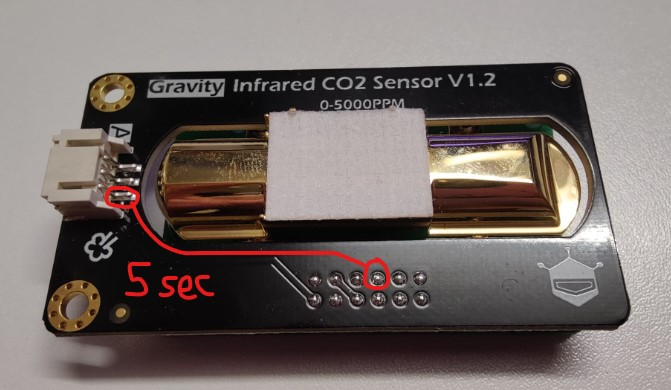
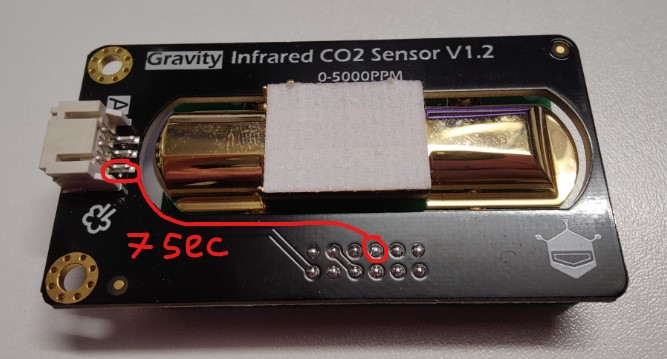
Some updates to the calibration manual

diff --git a/COACH/docs/CO2-sensor-calibration.md b/COACH/docs/CO2-sensor-calibration.md
@@ -1,14 +1,14 @@
 ## How to calibrate CO2 sensors v1.2 ([DF Robot](https://www.dfrobot.com/product-1549.html))
 
-The calibration is done by connecting those two pins for 5 seconds. Please follow the next steps:
+This is done by grounding the calibration pin for 7 seconds. Please follow the next steps:
 
 1. Leave the sensor working for 20 minutes in ideal environment (such as near one of the HVAC outlets in One Pool Street where CO2 reading is close to 400ppm).
-2. While monitoring the values from the sensor, connect the pins indicated in the picture, without restarting the sensor, for 5 seconds. You should notice the values change to the default level (This means the sensor has been recalibrated).
+2. While monitoring the values from the sensor, connect the pins indicated in the picture, without restarting the sensor, for 7 seconds. You should notice the values change to the default level (This means the sensor has been recalibrated).
 3. Leave the sensor working for some time, if you notice the values are not close to the default level (~400ppm in One Pool Street), redo the calibration a second time.
 
 ![](co2-recalibration2.jpg)
 
-### Note:
+### Note for v2.0:
 
 The calibration of v2.0 is basically same as v1.2, the only difference is that DFRobot exposed the calibration pads so this process could be easier.
 
